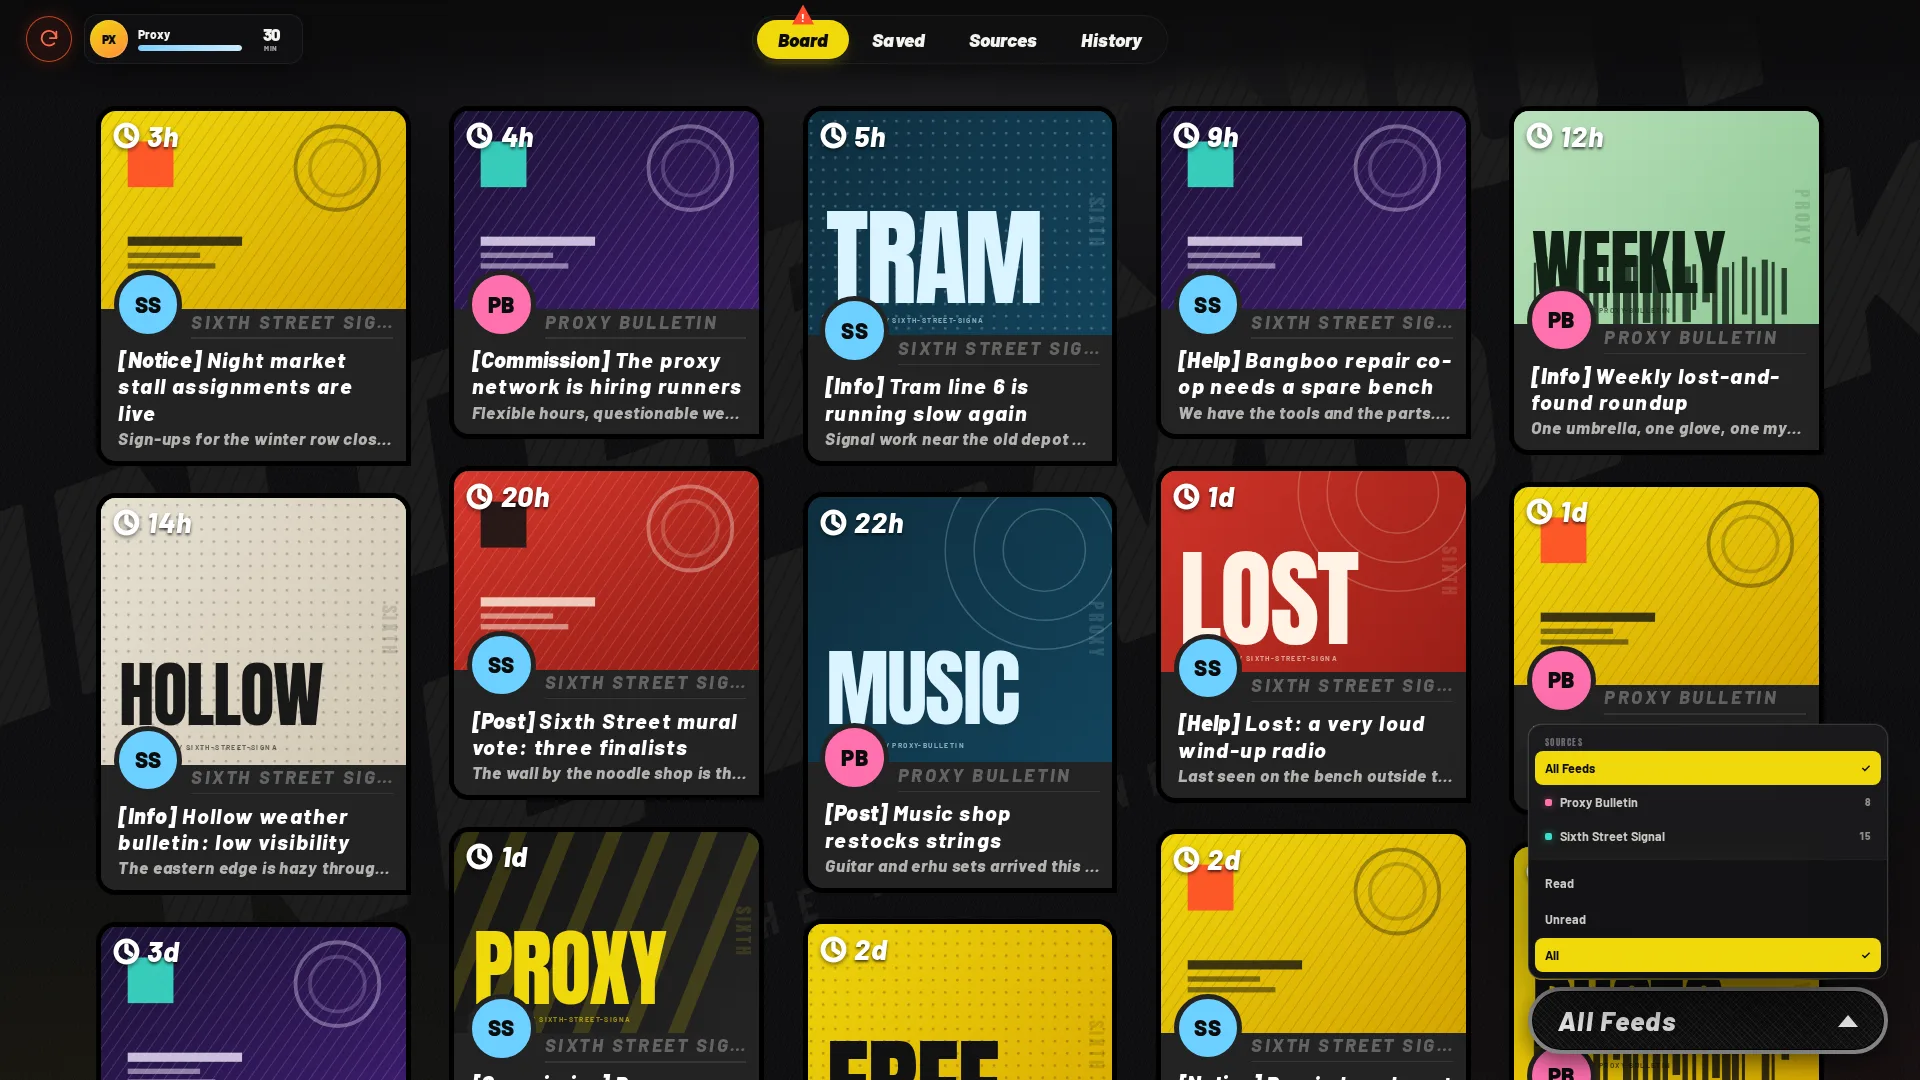
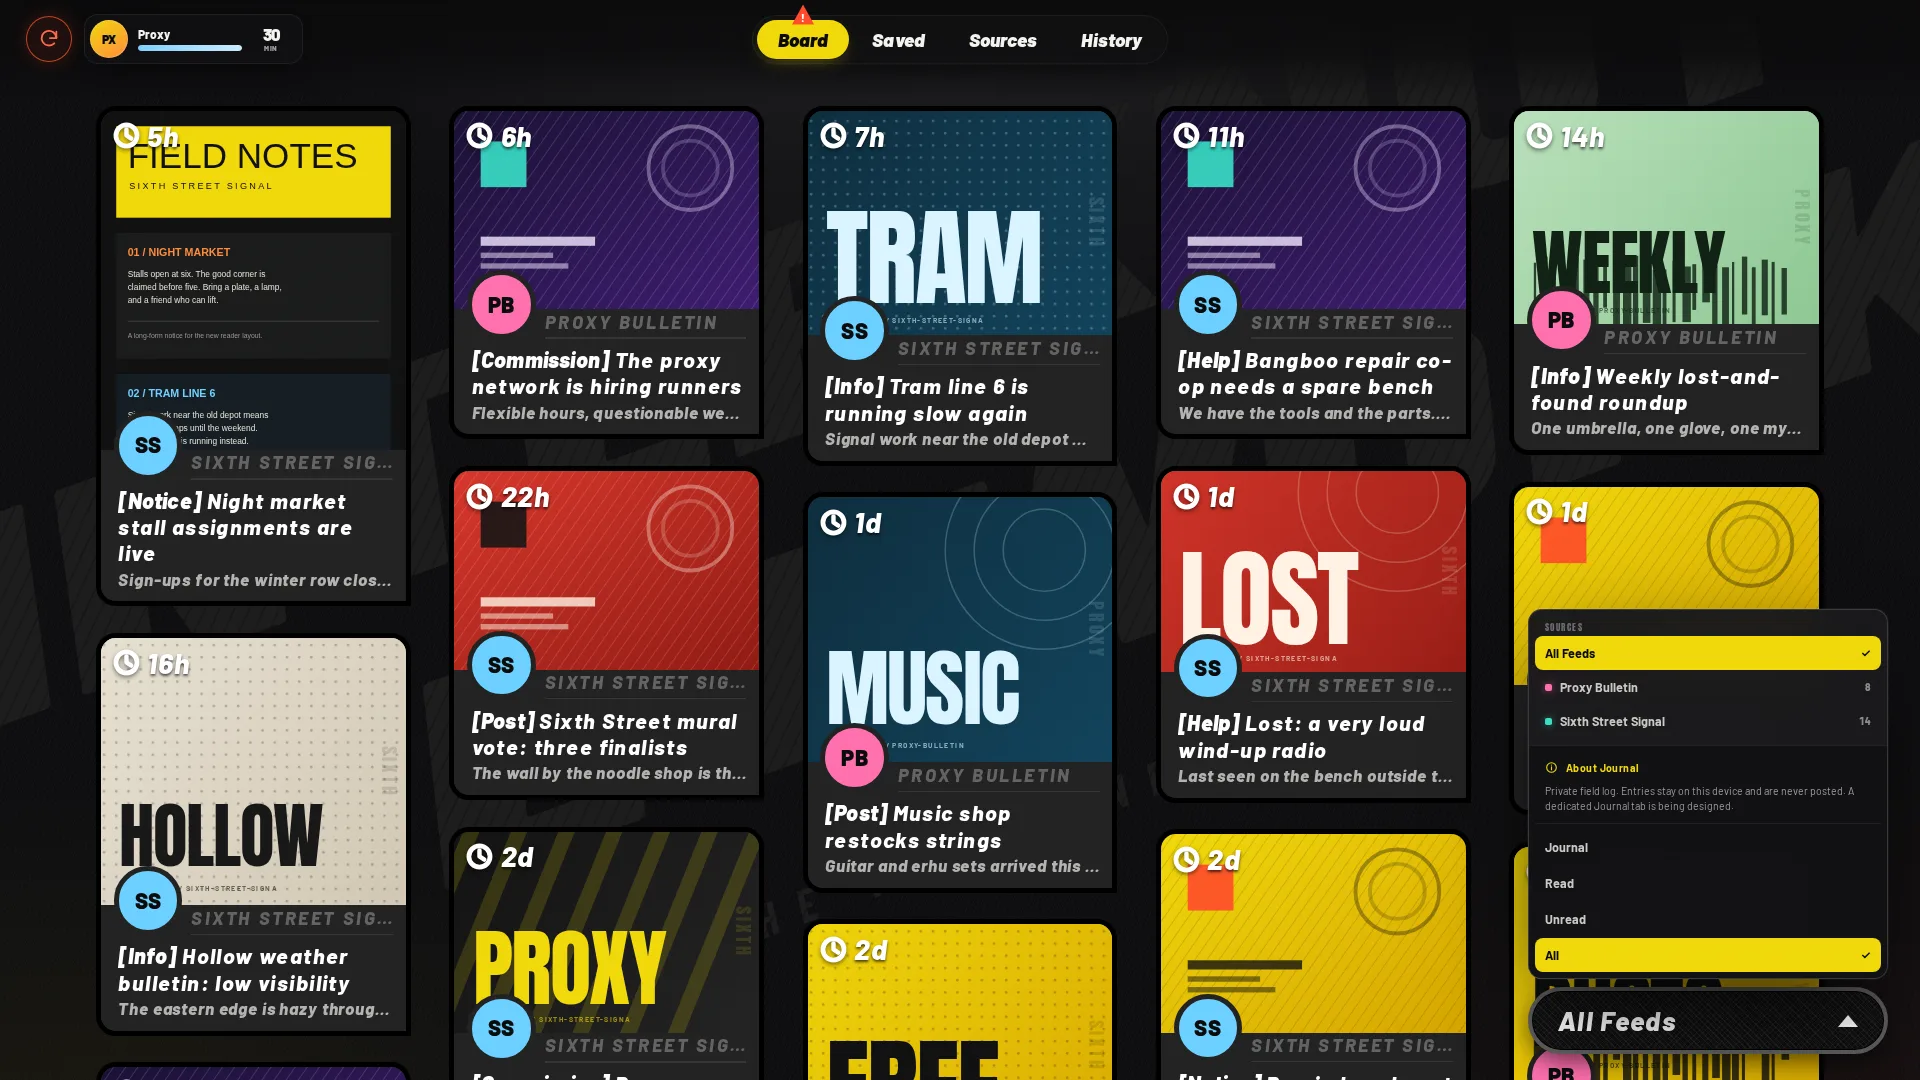
chore(release): v0.2.1
Document the two/three-column post reader, private Journal notes, Journal filter, scrollable media, and the reserved Lemmy write-action slot. Refresh the post and filter screenshots and add the Journal capture. The dedicated Journal section moves to v0.2.2.

diff --git a/docs/ARCHITECTURE.md b/docs/ARCHITECTURE.md
@@ -10,12 +10,16 @@ reader backend can be added without rewriting the UI.
 
 ## Status
 
-v0.2.0 ships the direct feed core. `ik-app` loads feeds and cached articles from
-IndexedDB, refreshes stale feeds with the browser transport, and feeds the same
-sections, scoped filter, mindful timer, and pagination that the UI demo used.
-The board starts empty; there is no demo dataset. The local proxy and reader
-backends remain v0.3.0/v0.4.0 work, and the transport seam is kept so they can
-land without rewriting the parser or UI.
+v0.2.1 ships the direct feed core and the new post reader. `ik-app` loads feeds,
+cached articles, and private journal notes from IndexedDB, refreshes stale feeds
+with the browser transport, and feeds the sections, Journal filter, mindful
+timer, and pagination. The board starts empty; there is no demo dataset.
+
+The post dialog chooses two columns by default and a three-column layout when
+comments or journal notes exist. Comments are not populated by RSS yet; the rail
+is ready for read-only comment sources. The local proxy and reader backends
+remain v0.3.0/v0.4.0 work, and the transport seam is kept so they can land
+without rewriting the parser or UI.
 
 ## Stack
 
@@ -37,12 +41,12 @@ can be replaced without touching the design layer.
 
 | Element            | Responsibility                                                                       |
 | ------------------ | ------------------------------------------------------------------------------------ |
-| `<ik-app>`         | Owns feeds, cache, refresh, articles, section, filters, read/saved state, timer.     |
+| `<ik-app>`         | Owns feeds, cache, refresh, articles, journal, filters, read/saved state, timer.     |
 | `<ik-topbar>`      | Refresh control, mindful cap chip, `Board`/`Saved`/`Sources`/`History`.              |
 | `<ik-board>`       | Masonry layout, adaptive batch size, optional read-on-scroll observer.               |
 | `<ik-card>`        | One post: lead image or poster, clock/time badge, author strip, tag, title, preview. |
 | `<ik-poster>`      | Deterministic SVG/CSS poster for posts without a usable photo.                       |
-| `<ik-post-dialog>` | Post reader over the blurred board; media, sanitized HTML, save, original link.      |
+| `<ik-post-dialog>` | Two/three-column reader; scrollable media, comments/journal rail, private notes.     |
 | `<ik-sources>`     | Add feed, OPML import, per-feed status, retry/remove, source scope.                  |
 | `<ik-history>`     | Posts actually opened, not cards merely seen on the board.                           |
 | `<ik-proxy>`       | Profile, mindful cap, appearance, read-on-scroll, transport notes.                   |
@@ -58,10 +62,14 @@ when shown.
 ## Sections and filters
 
 The four top-level sections are **Board**, **Saved**, **Sources**, and
-**History**. The bottom-right filter owns the view state: `All`, `Unread`, or
-`Read`, plus an optional source scope. It does not duplicate the sections. The
-popover opens upward; the scope group is pinned at the bottom so it stays near
-the pointer when the source list is long.
+**History**. The bottom-right filter owns the view state: `All`, `Unread`,
+`Read`, or `Journal`, plus an optional source scope. `Journal` is not a read
+state; it shows posts with at least one private field note. The popover opens
+upward; the scope group is pinned at the bottom so it stays near the pointer
+when the source list is long.
+
+The Journal controls include an info point explaining that entries are stored
+only on this device and that the dedicated Journal section is still in design.
 
 Opening a post marks it read and adds an entry to History. Read-on-scroll, when
 enabled, marks a card read after the whole card has been visible for 1.5 seconds;
@@ -78,7 +86,7 @@ cap. Changing the cap starts a fresh session. `Unlimited` is explicit and is
 never the default. State is stored in `localStorage`; no network request is
 involved.
 
-## Data flow (v0.2.0)
+## Data flow (v0.2.1)
 
 ```
 feed URL / OPML file
@@ -94,8 +102,10 @@ transport (direct, CORS-only) ──► parser (RSS 2.0 / Atom / RDF / JSON Feed
 IndexedDB cache ◄────────────── ik-app ──► filtered, limited articles
    │                             │
    ├── feed metadata             ├──► ik-board ──► ik-card ──► image | poster
-   ├── cached articles           ├──► ik-post-dialog ──► read / history / save
-   └── read/starred/opened       ├──► ik-history ──► openedAt entries
+   ├── cached articles           ├──► ik-post-dialog ──► 2/3 columns
+   ├── read/starred/opened       │      ├──► sanitized article + media scroll
+   └── journal notes             │      └──► comments / private journal rail
+                                 ├──► ik-history ──► openedAt entries
                                  ├──► ik-sources ──► add / import / refresh
                                  └──► ik-proxy ──► mindful timer / preferences
 ```
@@ -134,9 +144,11 @@ parser and normalizer do not change.
   opened posts are retained beyond the cap.
 - IndexedDB key `ik.reading.v1`: read IDs, starred IDs, and opened timestamps.
   Keeping this separate means a cache prune cannot erase reading state.
+- IndexedDB key `ik.journal.v1`: private journal entries with article snapshots.
+  The snapshot keeps a note readable if the article later leaves the cache.
 - Secrets: API passwords/tokens belong in `sessionStorage` by default. Persisting
   them is an explicit opt-in with a warning; they are never written into URLs or
-  logs. v0.2.0 has no credentials to store.
+  logs. v0.2.1 has no credentials to store.
 
 ## Rendering notes
 
@@ -168,12 +180,28 @@ parser and normalizer do not change.
   `rel="noopener noreferrer nofollow"`; relative image and link URLs are resolved
   against the post. The dialog renders that sanitized string and keeps the
   plain-text paragraph fallback for feeds that only provide text.
+- **Post layouts.** `postLayout()` returns two columns when a post has neither
+  comments nor journal notes, and three when a third rail exists. The two-column
+  layout uses independent image and content cards. The three-column layout
+  nests the image card and content inside a black post card, with a separate
+  comments/Journal rail.
+- **Post media.** The image pane is a scroll viewport. Short images fill it with
+  `object-fit: cover`; long strips keep their natural height and scroll. Scroll
+  state drives sharp top/bottom fades and conditional up/down arrows. The image
+  resets to the top whenever the dialog opens.
+- **Journal.** Journal notes are private local records. The post rail shows them
+  oldest first, with add and delete. The Journal filter maps entries back to
+  article IDs; the article cache is not required to keep a note's snapshot.
 - **Dialogs.** `@ui-sdk/web/dialog` provides the top layer, focus trap and
   `openchange` lifecycle. CSS animates `data-starting-style` /
   `data-ending-style`.
-- **Backdrop.** A fixed, static SVG masthead: three staggered lines filled with
-  a dark hatch and rotated `-20deg`. Barlow Condensed carries the display type.
-  There is no marquee and no game texture; it is original, generated markup.
+- **Backdrop.** The app background is a fixed, static SVG masthead: three
+  staggered lines filled with a dark hatch and rotated `-20deg`. The post
+  backdrop adds a slight blur, a fine gray/black hatch, and a bottom vignette.
+  The post window itself is a `#232322` to black gradient.
+- **Window.** The post window has three rounded corners with a square top-right,
+  a translucent #323232 outer border, a solid black inner border, and separate
+  image, content, and rail surfaces.
 
 ## Testing
 
@@ -183,6 +211,8 @@ parser and normalizer do not change.
 - The feed suite uses jsdom fixtures for RSS 2.0, Atom, YouTube Atom, RDF, JSON
   Feed, malformed XML, entity declarations, OPML nesting/dedupe, relative URLs,
   HTML sanitization, transport error classes, and cache/read-state preservation.
+- Post tests cover the two/three-column decision, media scroll edges, and the
+  private journal add/remove/grouping helpers.
 - The local proxy suite is still planned for v0.3.0 and will cover URL validation
   and private-IP blocking.
 - CI runs `bun run check` (type-check, tests, production build) on every push and

diff --git a/README.md b/README.md
@@ -22,10 +22,16 @@ timer, and a post view that opens over a blurred board.
 It is a static site. There are no accounts, no backend, no analytics, and no
 tracking. Your feed list, reading state, and timer live in your browser.
 
-**Status: v0.2.0 — direct feeds.** Add a feed URL or import a FreshRSS/OPML
+**Status: v0.2.1 — post reader.** Add a feed URL or import a FreshRSS/OPML
 export. The board parses RSS 2.0, Atom, RDF, and JSON Feed in the browser,
-caches posts in IndexedDB, and feeds the existing sections, filters, mindful
-timer, and poster fallback.
+caches posts in IndexedDB, and feeds the sections, filters, mindful timer, and
+poster fallback.
+
+The post view now has a two-column reading layout by default and a three-column
+layout when comments or private journal notes are present. Long informational
+images scroll inside their card instead of being cropped, and the Journal filter
+collects posts with private field notes. The dedicated Journal tab is still in
+design.
 
 Direct fetch is the only transport in this release. A static site cannot bypass
 CORS, so feeds that do not send `Access-Control-Allow-Origin` will show a clear
@@ -64,17 +70,25 @@ it stays a queue.
   posters.
 - **Sanitized article HTML.** Scripts, event handlers, forms, iframes, and
   unsafe URLs are stripped. Links open the original source in a new tab.
+- **Two- and three-column post reader.** Image card plus article by default;
+  a third rail for comments or private notes when one exists.
+- **Private Journal.** Write local field notes on a post, read them in the
+  Journal rail, filter the board by Journal, and delete notes. Nothing is
+  posted or synced; the dedicated Journal tab is still in design.
+- **Scrollable post images.** Long strips keep their full width and scroll with
+  sharp fades and up/down arrows. Short images fill the card as before.
 - Order-preserving masonry: 1 → 2 → 3 → 4 → 5 → 8 columns, depending on width.
 - Static procedural Inter-Knot masthead behind the wall, hatched and rotated
   without a marquee or game texture.
 - Post cards with a clock/time badge, read-state title color, author strip, tag,
   title, and a one-line preview.
-- Post dialog: blurred backdrop, source bar, save toggle, red close button,
-  media pane, scrollable sanitized article, `Expand`, tags, and original link.
+- Post dialog: blurred hatched backdrop, three-corner window, two-border avatar,
+  image card, article card, comments/Journal rail, save toggle, and original
+  link.
 - Board / Saved / Sources / History sections. Opening a post marks it read and
   files it in History.
-- Bottom-right filter: All / Unread / Read plus source scope, with the scope
-  controls pinned nearest the pill.
+- Bottom-right filter: All / Unread / Read / Journal plus source scope, with
+  the scope controls pinned nearest the pill.
 - Mindful timer and Proxy sheet: cap choices, Unlimited, refill, compact density,
   read-on-scroll.
 - Adaptive `Load more`: about five board viewports per batch, never an infinite
@@ -85,7 +99,9 @@ it stays a queue.
 
 ![The Sources manager with two direct feeds](docs/screenshots/sources.webp)
 
-![The post view](docs/screenshots/post.webp)
+![The two-column post view](docs/screenshots/post.webp)
+
+![The three-column post view with a private Journal rail](docs/screenshots/journal.webp)
 
 ## Quick start
 

diff --git a/docs/LEMMY.md b/docs/LEMMY.md
@@ -34,11 +34,14 @@ feed. The app can offer a small helper that builds the URL from
 ## Scope for the first version
 
 - **Read-only.** No login, voting, commenting, subscribing, or moderation.
+- **No write actions.** Posting or commenting is out of scope. The post reader
+  keeps room for a future action, but it needs a separate auth and security
+  design before it can exist.
 - **Public feeds only.** Do not ask for a JWT or store one. The
   `front`/`inbox`/`modlog` feeds are out of scope.
 - **No invented comments.** A community RSS feed contains posts, not the comment
   tree. The post dialog shows the post body and a link to the original thread;
-  the comment area stays empty or shows a "Read the thread on Lemmy" action.
+  the comments rail stays empty until a read-only comment source fills it.
 - **Respect the instance.** Rate-limit refresh, identify the client, and do not
   hammer small instances. Cache articles locally like any other feed.
 - **NSFW and instance rules.** The reader does not add a content filter in v1.
@@ -68,8 +71,8 @@ GET /api/v3/comment/list?post_id={id}&sort=Top&limit=50
 ```
 
 Those are read-only and do not require authentication on most instances. The
-existing post dialog already renders a comment list with floor badges, so the
-mapping is mostly:
+post dialog already has a comments rail with floor badges, so the mapping is
+mostly:
 
 - Lemmy comment `content` → sanitized comment body.
 - `creator.name` / `creator.avatar` → author row.

diff --git a/docs/ROADMAP.md b/docs/ROADMAP.md
@@ -48,8 +48,21 @@ Shipped in this repository.
 - Unread counts and the source scope now come from real feeds, including feeds
   that failed to load.
 
-Deferred to v0.2.1:
+## v0.2.1 — post reader
 
+Shipped in this repository.
+
+- Two-column post reader for posts without comments or journal notes.
+- Three-column reader with a third rail when comments or notes exist.
+- Private per-post Journal notes stored locally, with add and delete.
+- `Journal` filter plus an info point for the dedicated Journal tab in design.
+- Scrollable long post images with sharp fades and up/down arrows.
+- Restyled post window, backdrop, header, image card, content card, and rail.
+- Comments rail ready for read-only comment sources such as Lemmy.
+
+## v0.2.2 — daily-use polish
+
+- Dedicated Journal section in the top navigation.
 - Add-feed discovery from an HTML page (`<link rel="alternate">`).
 - OPML export.
 - Search across titles and article text.

diff --git a/SECURITY.md b/SECURITY.md
@@ -49,8 +49,9 @@ and protecting a user from a compromised browser or extension.
 ## Security decisions in this repository
 
 - No analytics, telemetry, or third-party scripts.
-- Reading state, the mindful timer, open history, and preferences are local to
-  the browser. They are not transmitted.
+- Reading state, the mindful timer, open history, private journal notes, and
+  preferences are local to the browser. They are not transmitted. Journal notes
+  are never posted to a feed, Lemmy, or any other service.
 - No public CORS proxy is shipped or recommended.
 - Direct feed fetching is credential-free (`credentials: "omit"`). It is
   limited to HTTPS on HTTPS pages, with a 10-second timeout, a 5 MB cap, and a

diff --git a/docs/FEEDS.md b/docs/FEEDS.md
@@ -72,7 +72,7 @@ of sources, and YouTube's Atom feed is not among them.
    that, refresh is manual.
 
 Add-feed discovery from an HTML page (`<link rel="alternate">`) is deferred to
-v0.2.1. A URL that returns HTML is stored as a failed feed so the user can see
+v0.2.2. A URL that returns HTML is stored as a failed feed so the user can see
 what happened and remove it.
 
 ## Local proxy contract (planned, v0.3.0)
